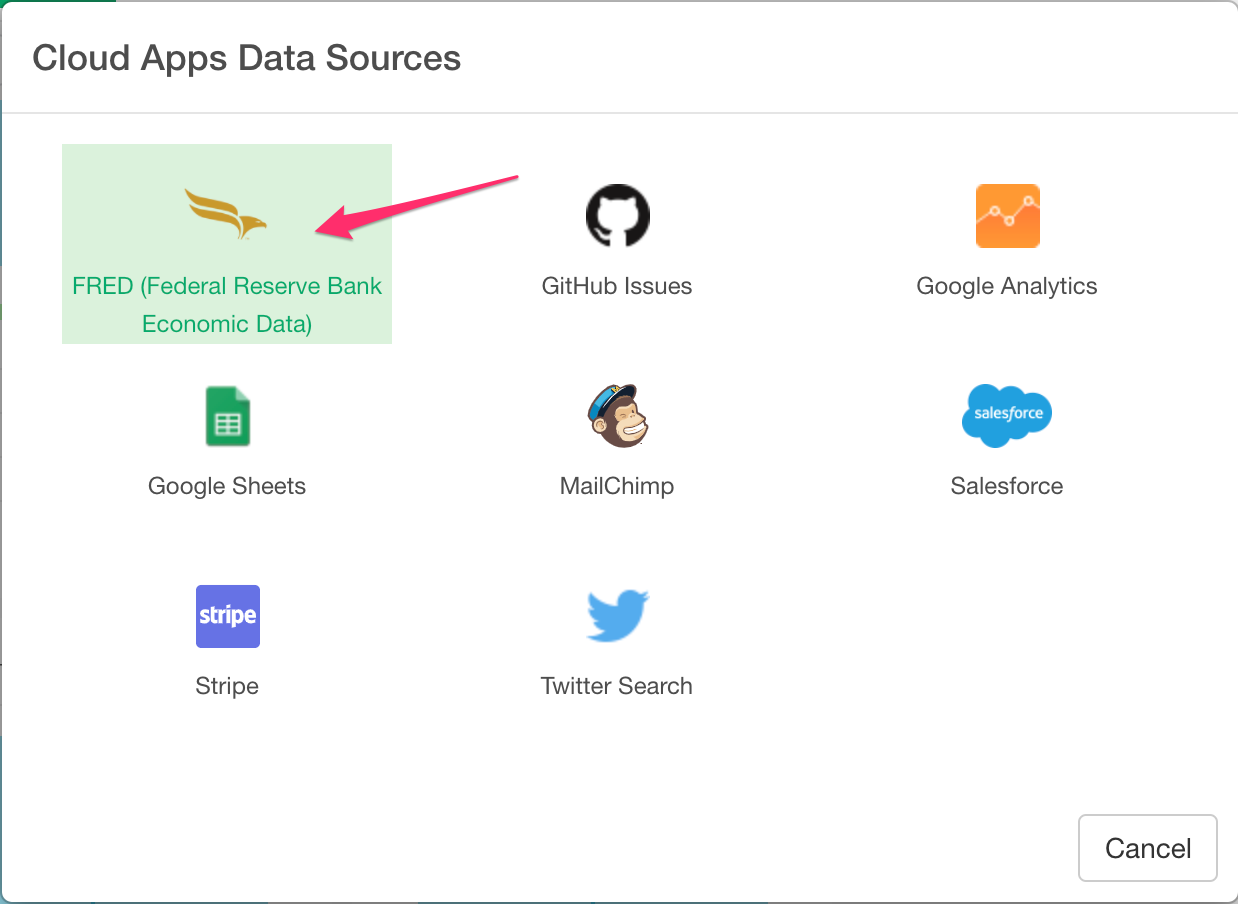
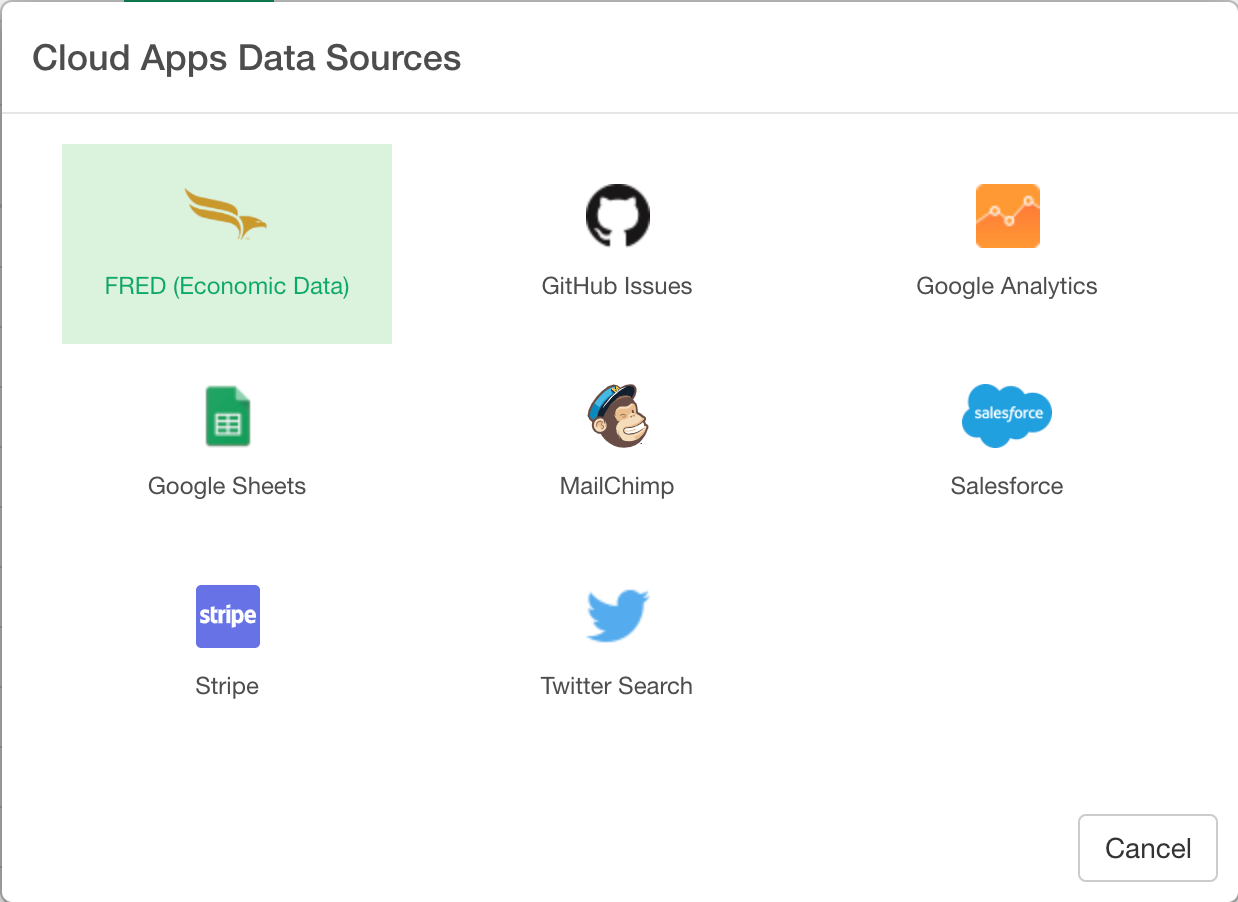
Updated FRED Screenshots

diff --git a/import/fred.md b/import/fred.md
@@ -10,23 +10,19 @@ Click '+' button next to 'Data Frames' and select 'Import Cloud Apps Data'.
 
 ![](images/import-cloudapps.png)
 
-Click 'FRED (Federal Reserve of Economic Data)'.
+Click 'FRED (Economic Data)'.
 
 ![](images/fred-data-menu.png)
 
 Create connection from here if you don't have.
-
-![](images/fred-con-open.png)
-
-Select "FRED".
-
-![](images/select_fred.png)
 
 Type connection name and FRED API Key. Test connection and if it works ok, click "Add" button.
 
 ![](images/fred-setting.png)
 
 Type in Series ID, e.g. UNRATE for unemployment rate, and select Start Date. 
+You can search Series ID in https://fred.stlouisfed.org/tags/series 
+
 ![](images/fred_preview.png)
 
 Click "Run". If the preview is okay, click "Import".
